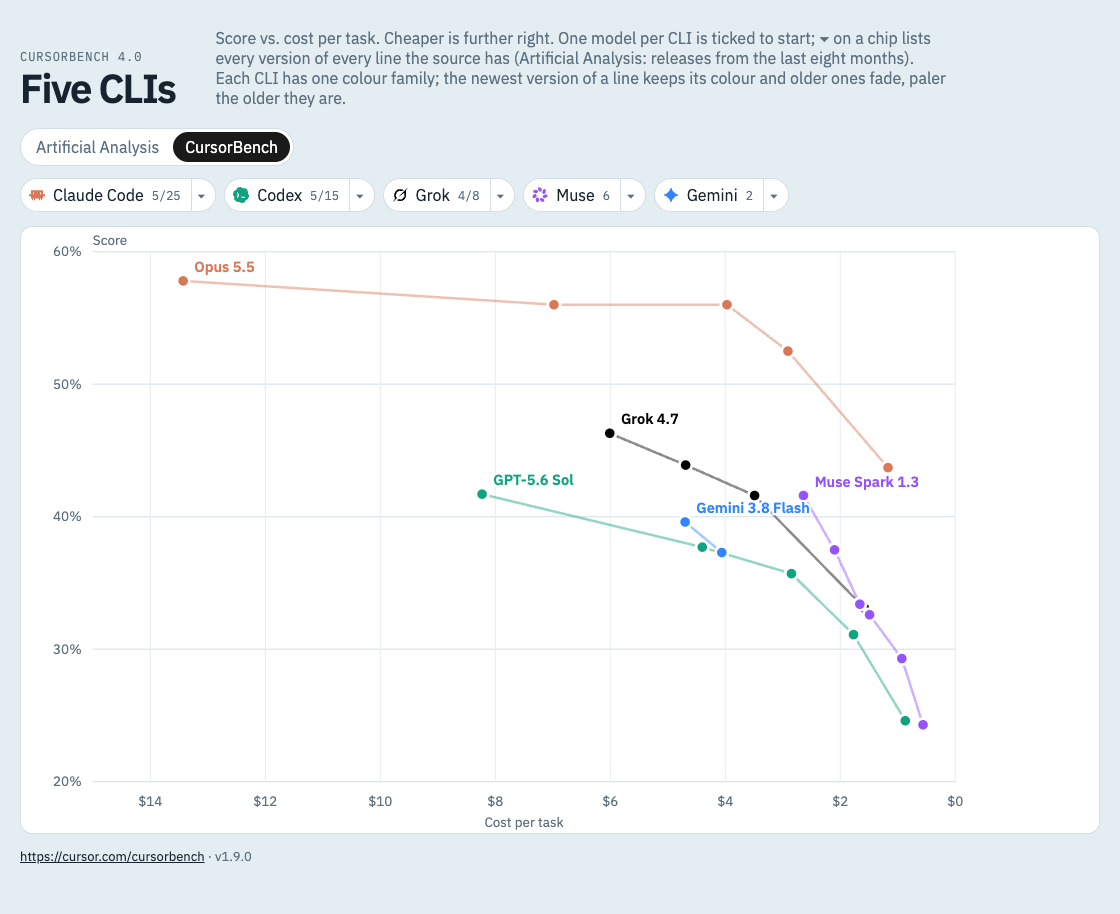
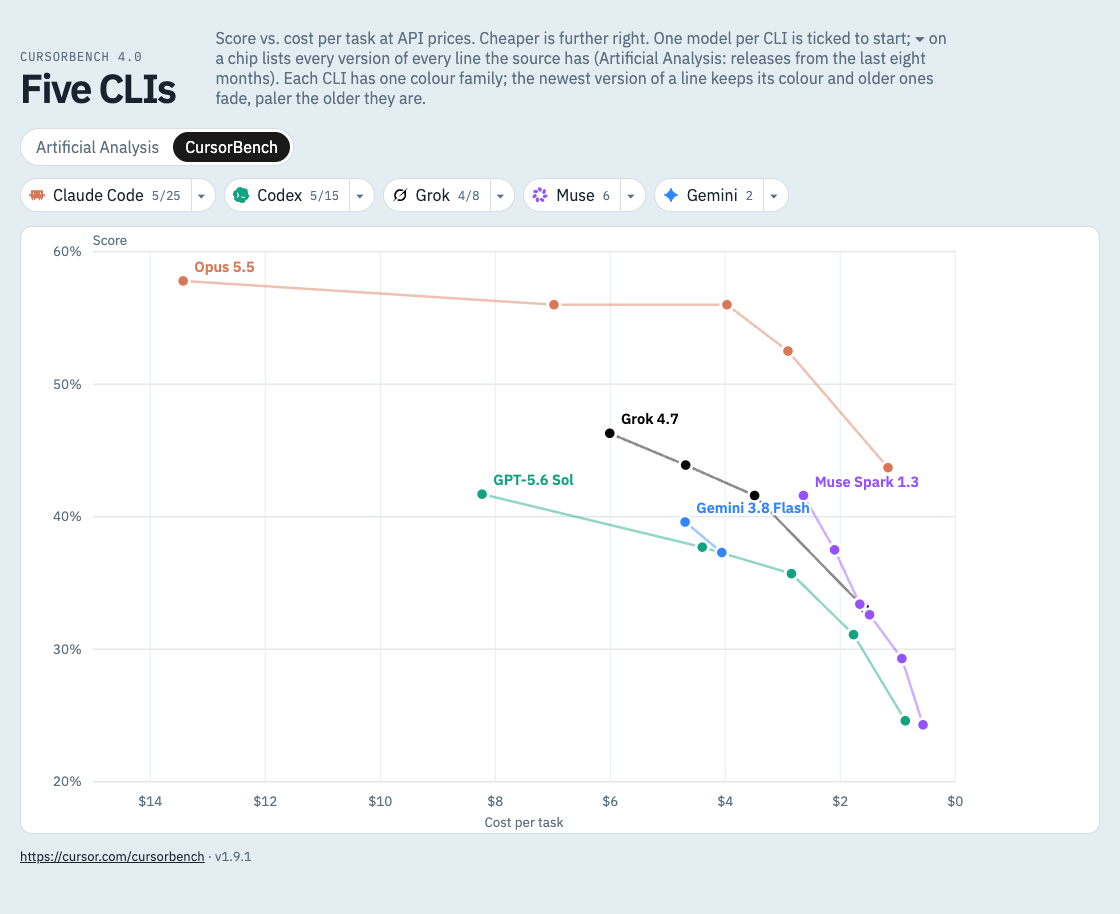
docs: make the page text and README match what the viewer does now
- Page and README: cost is per task at API prices; the menu lists every
  version and only ticked ones are drawn; new versions start unticked.
- README intro covers both sources; effort note per source; hover text
  matches the crosshair and label (no tooltip); fresher effort-count
  example; bench.ts layout entry.
- Screenshots retaken with the defaults. Bump to 1.9.1.

Changed region(s): [[0.1875, 0.0306, 0.8438, 0.1225]]

diff --git a/src/App.tsx b/src/App.tsx
@@ -160,7 +160,7 @@ export default function App() {
           <h1>Five CLIs</h1>
         </div>
         <p className="deck">
-          Score vs. cost per task. Cheaper is further right. One model per CLI is ticked to start; ▾ on a chip lists every
+          Score vs. cost per task at API prices. Cheaper is further right. One model per CLI is ticked to start; ▾ on a chip lists every
           version of every line the source has (Artificial Analysis: releases from the last eight months). Each CLI has one
           colour family; the newest version of a line keeps its colour and older ones fade, paler the older they are.
           {source === "aa"

diff --git a/src/bench.ts b/src/bench.ts
@@ -50,7 +50,7 @@ export const SOURCES: Record<
   },
 }
 
-export const APP_VERSION = "1.9.0"
+export const APP_VERSION = "1.9.1"
 
 export function providerById(id: ProviderId) {
   const found = PROVIDERS.find((item) => item.id === id)

diff --git a/README.md b/README.md
@@ -1,8 +1,8 @@
 # cursorbench
 
-A small local viewer for the [CursorBench](https://cursor.com/cursorbench) leaderboard. It plots **score vs. cost per task** for the models behind five coding CLIs, so you can see at a glance which model and effort level gives the most score per dollar.
+A small local viewer that plots **score vs. cost per task** for the models behind five coding CLIs, from the [Artificial Analysis](https://artificialanalysis.ai/models/releases) Intelligence Index (the default) or the [CursorBench](https://cursor.com/cursorbench) leaderboard, so you can see at a glance which model and effort level gives the most score per dollar. Cost is per task at API prices, not a subscription.
 
-| CLI         | Lines drawn (every listed version of each)                |
+| CLI         | Lines in the ▾ menu (every listed version of each)        |
 | ----------- | --------------------------------------------------------- |
 | Claude Code | Fable, Opus, Sonnet                                       |
 | Codex       | GPT Astra, Sol, Terra, Luna                               |
@@ -10,13 +10,13 @@ A small local viewer for the [CursorBench](https://cursor.com/cursorbench) leade
 | Muse        | Muse Spark, Muse Glimmer                                  |
 | Gemini      | Gemini Argon, Flash, Flash-Lite, Pro                      |
 
-Every effort level listed on CursorBench (Minimal → Max) appears as its own point, and each model's points are connected into one line.
+Every effort level the source lists (Minimal → Max) appears as its own point, and each model's points are connected into one line.
 
 The page opens on Artificial Analysis, with one model ticked per CLI: Opus 5.5, GPT-6.1 Sol, Grok 4.7, Muse Spark 1.3 and Gemini 3.8 Flash. A CLI that has none of these on a source gets the first model of its menu instead (on CursorBench, Codex starts on GPT-5.6 Sol). Every other model the source lists for these five CLIs, every version of every line, is in the ▾ menu to tick. On Artificial Analysis only releases from roughly the last eight months are drawn, and a model AA scored without a cost per task (for example Opus 4.7 or Grok 4.20) cannot be placed on the cost axis and is left out.
 
 ![Demo: score vs. cost per task for five coding CLIs](docs/demo.png)
 
-Hovering a point spotlights that model: the other lines fade, a crosshair marks its score and cost, and a tooltip shows the details.
+Hovering a point spotlights that model: the other lines fade, a crosshair marks its score and cost on the axes, and the model name and effort appear beside the point.
 
 ![Demo: hover spotlights one model and dims the rest](docs/demo-hover.png)
 
@@ -28,11 +28,11 @@ Clicking a legend chip shows or hides that CLI. Here only Codex is visible.
 
 ![Demo: legend chips filter the chart to one CLI](docs/demo-filter.png)
 
-**Version rule:** every version the source lists for a line is drawn, so on Artificial Analysis GPT-6.1 Sol, GPT-6 Sol and GPT-5.6 Sol all appear, as do Opus 5.5 and Opus 5. Each CLI has one colour family taken from an official colour that does not clash with the others: Claude Code terracotta `#D97757`, Codex in OpenAI green `#10A37F`, Grok in xAI black, Muse in Meta AI violet `#9553FF` and Gemini blue `#3186FF`. Within a family the flagship line is darker and the small line lighter. The newest version of a line keeps its colour; older versions fade toward white, paler the older they are, so a faded line still reads as its CLI. Versions compare as decimals, so Grok 4.20 counts as older than Grok 4.7. A new version appears as soon as the source lists it, with no code change. Untick older versions in the ▾ menu to hide them.
+**Version rule:** every version the source lists for a line is in the ▾ menu, so on Artificial Analysis GPT-6.1 Sol, GPT-6 Sol and GPT-5.6 Sol are all there, as are Opus 5.5 and Opus 5; ticked ones are drawn. Each CLI has one colour family taken from an official colour that does not clash with the others: Claude Code terracotta `#D97757`, Codex in OpenAI green `#10A37F`, Grok in xAI black, Muse in Meta AI violet `#9553FF` and Gemini blue `#3186FF`. Within a family the flagship line is darker and the small line lighter. The newest version of a line keeps its colour; older versions fade toward white, paler the older they are, so a faded line still reads as its CLI. Versions compare as decimals, so Grok 4.20 counts as older than Grok 4.7. A new version joins the menu as soon as the source lists it, with no code change, and starts unticked. Tick older versions in the ▾ menu to compare them.
 
-As of 2026-10-01 CursorBench has no GPT-6 models, so it shows only GPT-5.6. GPT-6 has no Terra line.
+As of 2026-10-02 CursorBench has no GPT-6 models, so it shows only GPT-5.6. GPT-6 has no Terra line.
 
-**Data source switch:** the toggle above the legend swaps the [Artificial Analysis](https://artificialanalysis.ai/models/releases) Intelligence Index (the default) for CursorBench, using the same lines and the same version rule. AA already lists GPT-6.1 Sol, GPT-6 Sol, GPT-6 Astra, GPT-6 Luna and Gemini 4 Argon. Its score is a general intelligence index on a different test set, so read it on its own and do not compare it with CursorBench percentages. AA scores fewer efforts for some models (Grok 4.7 and Muse Spark 1.3 have two each). CursorBench is kept in the URL as `?source=cursorbench`.
+**Data source switch:** the toggle above the legend swaps the [Artificial Analysis](https://artificialanalysis.ai/models/releases) Intelligence Index (the default) for CursorBench, using the same lines and the same version rule. AA already lists GPT-6.1 Sol, GPT-6 Sol, GPT-6 Astra, GPT-6 Luna and Gemini 4 Argon. Its score is a general intelligence index on a different test set, so read it on its own and do not compare it with CursorBench percentages. AA scores fewer efforts for some models: Muse Spark 1.3 has two points on AA against six on CursorBench. CursorBench is kept in the URL as `?source=cursorbench`.
 
 ![Demo: the same chart on CursorBench](docs/demo-cursorbench.png)
 
@@ -95,7 +95,7 @@ src/App.tsx        Page layout, source toggle, data loading, visibility state
 src/Legend.tsx     Legend chips and the per-CLI model menu, grouped by line
 src/logos.ts       Product marks for the chips (LobeHub Icons, MIT)
 src/Chart.tsx      SVG scatter/line chart (score vs. cost)
-src/bench.ts       Shared types, provider colors, formatting helpers
+src/bench.ts       Shared types, sources, colours, model lines, menu order, default ticks, formatting
 ```
 
 ## Changing which models are shown
@@ -108,6 +108,7 @@ Product marks on the legend chips come from [LobeHub Icons](https://github.com/l
 
 ## Changelog
 
+- **1.9.1** (2026-10-02): The page and README say the cost axis is per task at API prices, that the menu lists every version while only ticked ones are drawn, and that new versions start unticked. README intro covers both sources; the hover and effort-count notes match what the page does now.
 - **1.9.0** (2026-10-02): Opens on Artificial Analysis (CursorBench is `?source=cursorbench`) with one model ticked per CLI: Opus 5.5, GPT-6.1 Sol, Grok 4.7, Muse Spark 1.3, Gemini 3.8 Flash, or the first in the menu where a source lacks it. Ticks are kept per source, and a model that appears later starts unticked. Legend chips show each CLI's product mark. The ▾ menu is grouped by line, and a group title ticks the whole line. Colours move to official ones that do not clash: Claude `#D97757`, OpenAI green `#10A37F`, xAI black, Meta AI violet `#9553FF`, Gemini blue `#3186FF`.
 - **1.8.1** (2026-10-02): The ▾ menu goes back to line first, then newest version first within a line, for every CLI. Gemini keeps Pro after Flash-Lite, so both Gemini 3.1 models stay at the bottom.
 - **1.8.0** (2026-10-02): One colour family per CLI, a shade per line, and older versions fade instead of turning grey, paler the older they are. The ▾ menu lists the newest generation first, so older versions sink to the bottom (Gemini: newest number first).
